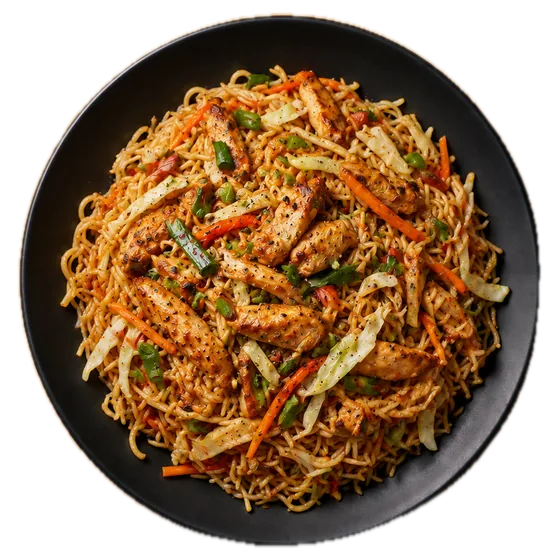
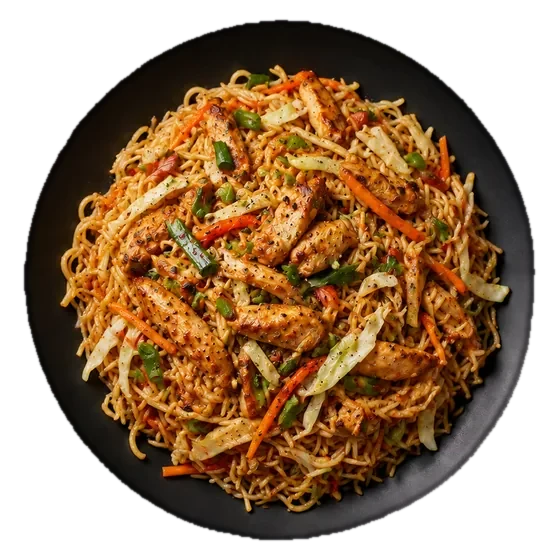
Drop availability pills, fix plate rim halo, richer menu motion
- Hero: remove the when-tag and two chips; only the dish name stays.
- Loud section: remove the four floating tags.
- Availability tag is now plain coloured caps, no pill or dot.
- Plate shadow circle moved inside the rim (5%) so no bare ring of page
  colour shows as a white lining; plate cutouts trimmed and edge darkened
  (originals kept in photo-sources/hero-original).
- Menu (home card and /menu): headings wipe in, rows stagger in, hover
  sweeps a tint under the row and turns the plus, tapping flashes the row.

Changed region(s): [[0.0304, 0.0, 0.9714, 1.0]]

diff --git a/src/styles/global.css b/src/styles/global.css
@@ -289,25 +289,16 @@ img {
   font-size: 12px;
 }
 
-/* ---------- availability tag (the only pill in the system) ---------- */
+/* ---------- availability label: plain coloured caps, no pill ---------- */
 .tag {
-  display: inline-flex;
-  align-items: center;
-  gap: var(--space-1);
-  height: 24px;
-  padding: 0 var(--space-2);
-  border-radius: var(--radius-pill);
-  border: 1px solid currentColor;
+  display: inline-block;
   font: 600 12px/16px var(--font-sans);
-  letter-spacing: 0.08em;
+  letter-spacing: 0.1em;
   text-transform: uppercase;
   white-space: nowrap;
 }
 .tag__dot {
-  width: 8px;
-  height: 8px;
-  border-radius: var(--radius-pill);
-  background: currentColor;
+  display: none;
 }
 .tag--now {
   color: var(--status-now);
@@ -320,10 +311,6 @@ img {
 }
 .tag--soldout {
   color: var(--status-soldout);
-}
-.tag--soldout .tag__dot {
-  background: transparent;
-  border: 1.5px solid currentColor;
 }
 
 /* ---------- price ---------- */
@@ -394,11 +381,12 @@ img {
   overflow: visible;
   background: none;
 }
-/* the cutouts carry 2% transparent padding, so the shadow circle sits 2% in */
+/* the plate rim starts ~4.5% in; the shadow circle must sit just inside it, or a bare ring of
+   page colour shows between plate and shadow and reads as a white lining */
 .dish--plate .dish__img::before {
   content: "";
   position: absolute;
-  inset: 2%;
+  inset: 5%;
   border-radius: 50%;
   box-shadow: 0 18px 28px rgba(0, 0, 0, 0.4);
 }
@@ -456,6 +444,85 @@ img {
 }
 .js [data-reveal="fade"]:not(.is-in) {
   transform: none;
+}
+/* heading wipes in from the left like a stamp being pulled */
+[data-reveal="wipe"] {
+  transition:
+    clip-path 0.9s var(--ease-out),
+    opacity 0.4s var(--ease-out),
+    transform 0.9s var(--ease-out);
+  transition-delay: var(--delay, 0s);
+}
+.js [data-reveal="wipe"]:not(.is-in) {
+  clip-path: inset(0 100% 0 0);
+  transform: translateX(-12px);
+}
+.js [data-reveal="wipe"].is-in {
+  clip-path: inset(0 -1% 0 0);
+}
+
+/* staggered lists: each child rises in a beat after the one before */
+.js [data-stagger] > * {
+  transition:
+    opacity 0.55s var(--ease-out),
+    transform 0.75s var(--ease-out);
+  transition-delay: calc(var(--delay, 0s) + var(--i, 0) * 45ms);
+}
+.js [data-stagger]:not(.is-in) > * {
+  opacity: 0;
+  transform: translateY(18px);
+}
+
+/* menu rows (home card and full menu): a tint sweeps in under the row, the plus turns */
+.menu__row,
+.fm__row {
+  position: relative;
+  isolation: isolate;
+}
+.menu__row::before,
+.fm__row::before {
+  content: "";
+  position: absolute;
+  inset: 0 -10px;
+  z-index: -1;
+  background: var(--surface-sunken);
+  transform: scaleX(0);
+  transform-origin: 0 50%;
+  transition: transform 0.5s var(--ease-out);
+}
+.menu__row:hover::before,
+.menu__row:focus-visible::before,
+.fm__row:hover::before,
+.fm__row:focus-visible::before {
+  transform: scaleX(1);
+}
+/* tapped: brand flash across the row, plus pops */
+.menu__row.is-added::after,
+.fm__row.is-added::after {
+  content: "";
+  position: absolute;
+  inset: 0 -10px;
+  z-index: -1;
+  background: var(--brand);
+  opacity: 0;
+  animation: row-flash 0.7s var(--ease-out);
+}
+@keyframes row-flash {
+  15% {
+    opacity: 0.28;
+  }
+}
+.is-added .menu__add,
+.is-added .fm__add {
+  animation: add-pop 0.6s var(--spring);
+}
+@keyframes add-pop {
+  40% {
+    transform: scale(1.4) rotate(180deg);
+  }
+  to {
+    transform: rotate(360deg);
+  }
 }
 
 /* split letters */

diff --git a/src/scripts/main.ts b/src/scripts/main.ts
@@ -16,22 +16,44 @@ const itemById = new Map(data.items.map((i) => [i.id, i]));
 /* ---------------------------------------------------------------- reveal */
 function initReveal() {
   const els = $$('[data-reveal]');
+  const lists = $$('[data-stagger]');
+  // each child waits a beat longer than the one before; capped so long lists don't drag
+  lists.forEach((l) => [...l.children].forEach((c, i) => (c as HTMLElement).style.setProperty('--i', String(Math.min(i, 12)))));
   if (!('IntersectionObserver' in window) || reduced) {
-    els.forEach((el) => el.classList.add('is-in'));
+    [...els, ...lists].forEach((el) => el.classList.add('is-in'));
     return;
   }
+  // a wiped heading is clipped to nothing, so the observer would never see it: watch its parent
+  const watched = new Map<Element, Element>();
   const io = new IntersectionObserver(
     (entries) => {
       for (const e of entries) {
         if (e.isIntersecting) {
-          e.target.classList.add('is-in');
+          (watched.get(e.target) ?? e.target).classList.add('is-in');
           io.unobserve(e.target);
         }
       }
     },
     { threshold: 0.15, rootMargin: '0px 0px -8% 0px' },
   );
-  els.forEach((el) => io.observe(el));
+  els.forEach((el) => {
+    const t = el.dataset.reveal === 'wipe' && el.parentElement ? el.parentElement : el;
+    watched.set(t, el);
+    io.observe(t);
+  });
+  // lists can be taller than the screen, so start them as soon as their top shows
+  const lio = new IntersectionObserver(
+    (entries) => {
+      for (const e of entries) {
+        if (e.isIntersecting) {
+          e.target.classList.add('is-in');
+          lio.unobserve(e.target);
+        }
+      }
+    },
+    { rootMargin: '0px 0px -10% 0px' },
+  );
+  lists.forEach((el) => lio.observe(el));
 }
 
 /* ---------------------------------------------------------------- scroll-linked progress + floating nav
@@ -471,6 +493,9 @@ function initOrder() {
     const it = itemById.get(id);
     if (!it) return;
     change(id, 1);
+    btn.classList.remove('is-added');
+    void btn.offsetWidth;
+    btn.classList.add('is-added');
     pill.classList.remove('bump');
     void pill.offsetWidth;
     pill.classList.add('bump');
